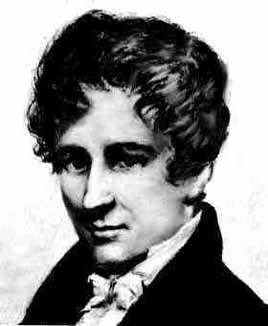
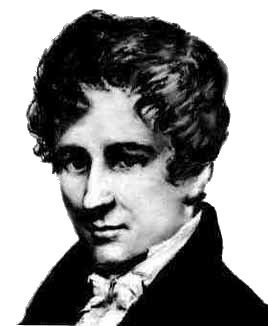
Bilder von mathematikern verbessert

diff --git a/zufallstuff.js b/zufallstuff.js
@@ -83,12 +83,12 @@ var math=[
 '<a href="/mathematiker/newton.html"><img src="/img/newton.jpg" class="b"></a>',
 '<a href="/mathematiker/fermat.html"><img src="/img/fermat.jpg" class="a"></a>',
 '<a href="/mathematiker/gauss.html"><img src="/img/gauss.jpg" class="b"></a>',
-'<a href="mathematiker/galois.html"><img src="/img/galois.jpg" class="b"></a>',
-'<a href="/mathematiker/goedel.html"><img src="/img/goedel.jpg" class="b"></a>',
+'<a href="mathematiker/galois.html"><img src="/mathematiker/Galois.jpg" class="b"></a>',
+'<a href="/mathematiker/goedel.html"><img src="/mathematiker/goedel.jpg" class="b"></a>',
 '<a href="/mathematiker/hilbert.html"><img src="/img/hilbert.jpg" class="b"></a>',
 '<a href="/mathematiker/einstein.html"><img src="/mathematiker/Einstein.jpg" class="a"></a>',
 '<a href="/mathematiker/leibniz.html"><img src="/img/leibniz.jpg" class="a" style="max-width:190px"></a>',
-'<a href="/mathematiker/abel.html"><img src="/img/abel.jpg" class="b"></a>'
+'<a href="/mathematiker/abel.html"><img src="/mathematiker/Abel.jpg" class="b"></a>'
 ];
 var txtmath=["Leonhard Euler","Isaac Newton","Pierre Fermat","C.F. Gauss","Evariste Galois","Kurt Gödel","David Hilbert","Albert Einstein","G.W. Leibniz","Niels Abel"];
 
